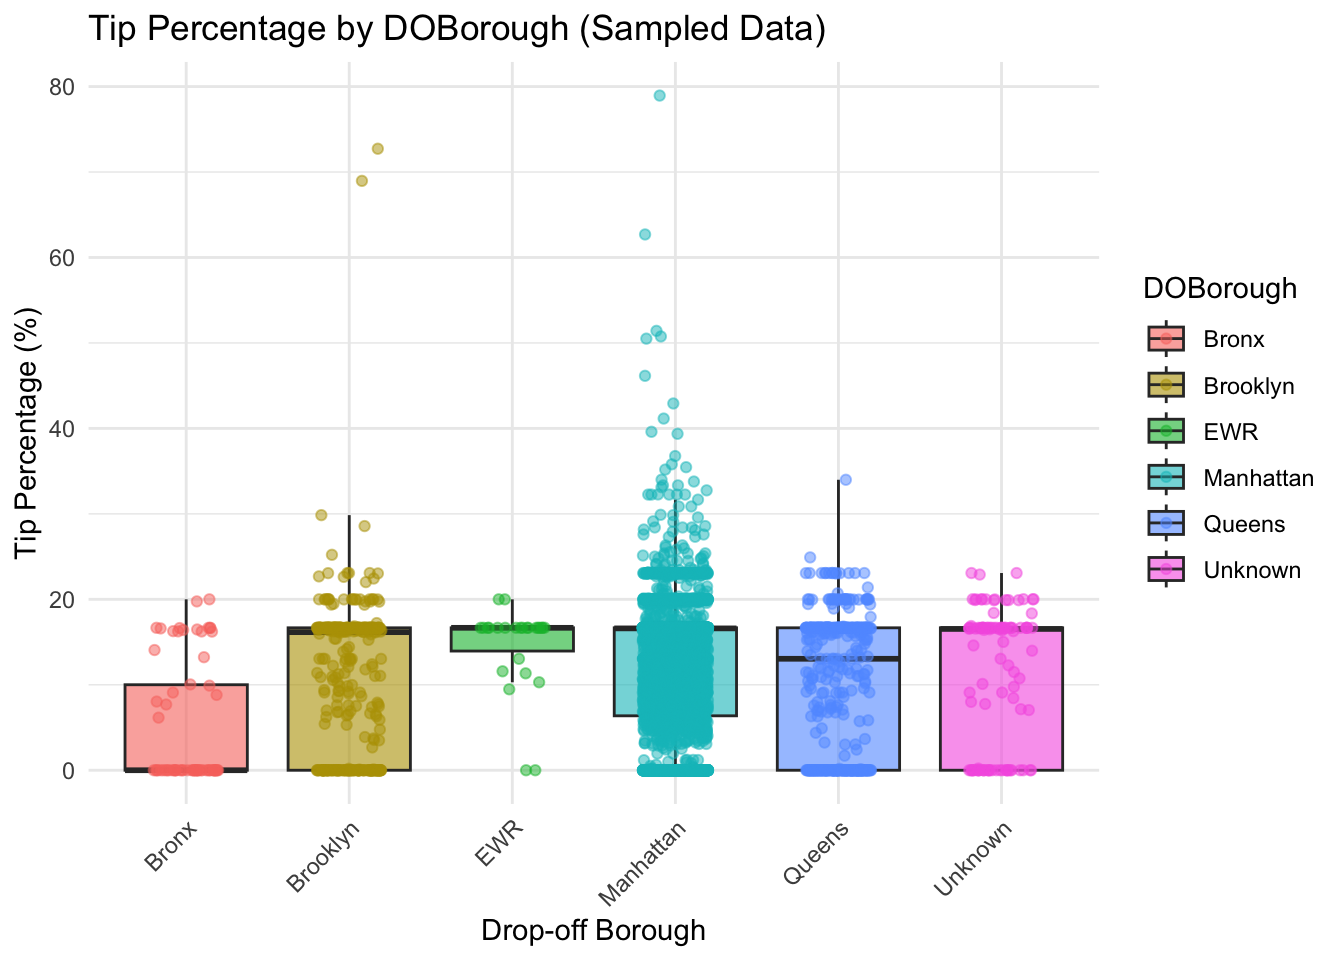
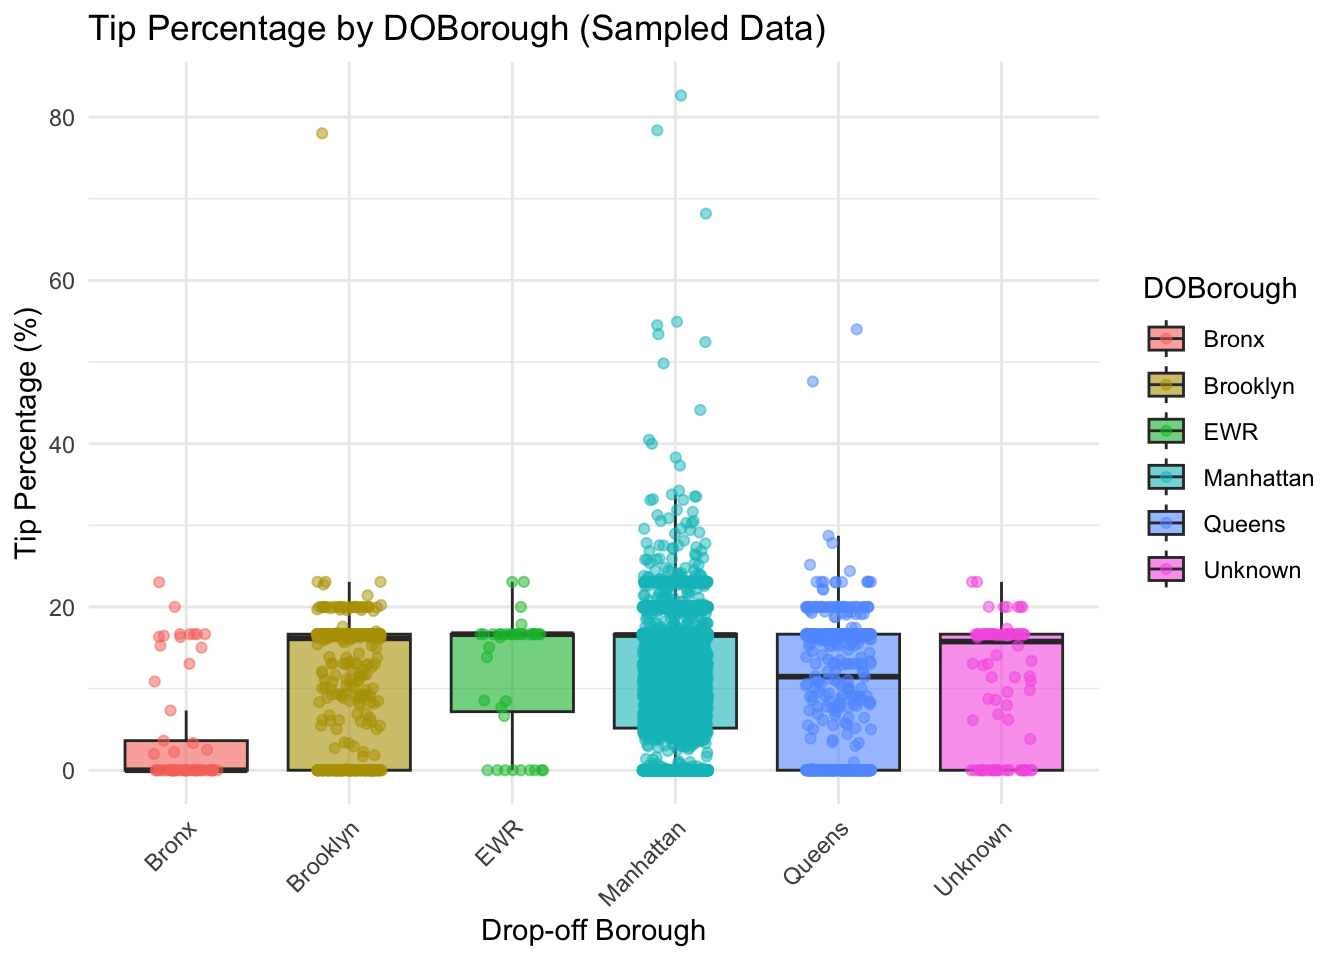
Updated results using open_dataset to merge files

diff --git a/docs/results.html b/docs/results.html
@@ -216,7 +216,6 @@ pre > code.sourceCode > span > a:first-child::before { text-decoration: underlin
 </header>
 
 
-<p>&lt;&lt;&lt;&lt;&lt;&lt;&lt; HEAD</p>
 <section id="fare-amount-by-trip-distance" class="level2" data-number="3.1">
 <h2 data-number="3.1" class="anchored" data-anchor-id="fare-amount-by-trip-distance"><span class="header-section-number">3.1</span> 1. Fare Amount by Trip Distance</h2>
 <p>For the following scatterplots we used a random subsample of the data due to the full dataset being too large (over 38 million rows). Upon plotting <code>fare_amount</code> by <code>trip_distance</code> we found that there were distinct patterns within the scatterplot. We used <code>RatecodeID</code> (the final rate code in effect at the end of the trip) and <code>payment_type</code> to illuminate these patterns.</p>
@@ -280,17 +279,24 @@ Attaching package: 'lubridate'</code></pre>
 <div class="sourceCode cell-code" id="cb12"><pre class="sourceCode r code-with-copy"><code class="sourceCode r"><span id="cb12-1"><a href="#cb12-1" aria-hidden="true" tabindex="-1"></a><span class="fu">library</span>(ggalluvial)</span>
 <span id="cb12-2"><a href="#cb12-2" aria-hidden="true" tabindex="-1"></a></span>
 <span id="cb12-3"><a href="#cb12-3" aria-hidden="true" tabindex="-1"></a><span class="co"># merging data (file was too big to store on github)</span></span>
-<span id="cb12-4"><a href="#cb12-4" aria-hidden="true" tabindex="-1"></a>path <span class="ot">&lt;-</span> <span class="st">'data/raw'</span></span>
-<span id="cb12-5"><a href="#cb12-5" aria-hidden="true" tabindex="-1"></a>filenames <span class="ot">&lt;-</span> <span class="fu">list.files</span>(path)</span>
-<span id="cb12-6"><a href="#cb12-6" aria-hidden="true" tabindex="-1"></a>merged <span class="ot">&lt;-</span> <span class="fu">read_parquet</span>(<span class="fu">paste0</span>(path, <span class="st">'/'</span>, filenames[<span class="dv">1</span>]))</span>
-<span id="cb12-7"><a href="#cb12-7" aria-hidden="true" tabindex="-1"></a><span class="cf">for</span> (file <span class="cf">in</span> filenames[<span class="dv">2</span><span class="sc">:</span><span class="fu">length</span>(filenames)]) {</span>
-<span id="cb12-8"><a href="#cb12-8" aria-hidden="true" tabindex="-1"></a>  prq <span class="ot">&lt;-</span> <span class="fu">read_parquet</span>(<span class="fu">paste0</span>(path, <span class="st">'/'</span>, file))</span>
-<span id="cb12-9"><a href="#cb12-9" aria-hidden="true" tabindex="-1"></a>  <span class="fu">colnames</span>(prq) <span class="ot">&lt;-</span> <span class="fu">colnames</span>(merged) <span class="co"># this is just for discrepancies in capitalization of colnames</span></span>
-<span id="cb12-10"><a href="#cb12-10" aria-hidden="true" tabindex="-1"></a>  merged <span class="ot">&lt;-</span> <span class="fu">rbind</span>(merged, prq)</span>
-<span id="cb12-11"><a href="#cb12-11" aria-hidden="true" tabindex="-1"></a>}</span>
+<span id="cb12-4"><a href="#cb12-4" aria-hidden="true" tabindex="-1"></a><span class="co"># path &lt;- 'data/raw'</span></span>
+<span id="cb12-5"><a href="#cb12-5" aria-hidden="true" tabindex="-1"></a><span class="co"># filenames &lt;- list.files(path)</span></span>
+<span id="cb12-6"><a href="#cb12-6" aria-hidden="true" tabindex="-1"></a><span class="co"># merged &lt;- read_parquet(paste0(path, '/', filenames[1]))</span></span>
+<span id="cb12-7"><a href="#cb12-7" aria-hidden="true" tabindex="-1"></a><span class="co"># for (file in filenames[2:length(filenames)]) {</span></span>
+<span id="cb12-8"><a href="#cb12-8" aria-hidden="true" tabindex="-1"></a><span class="co">#   prq &lt;- read_parquet(paste0(path, '/', file))</span></span>
+<span id="cb12-9"><a href="#cb12-9" aria-hidden="true" tabindex="-1"></a><span class="co">#   colnames(prq) &lt;- colnames(merged) # this is just for discrepancies in capitalization of colnames</span></span>
+<span id="cb12-10"><a href="#cb12-10" aria-hidden="true" tabindex="-1"></a><span class="co">#   merged &lt;- rbind(merged, prq)</span></span>
+<span id="cb12-11"><a href="#cb12-11" aria-hidden="true" tabindex="-1"></a><span class="co"># }</span></span>
 <span id="cb12-12"><a href="#cb12-12" aria-hidden="true" tabindex="-1"></a></span>
-<span id="cb12-13"><a href="#cb12-13" aria-hidden="true" tabindex="-1"></a><span class="co"># look up table for locationIDs and boroughs</span></span>
-<span id="cb12-14"><a href="#cb12-14" aria-hidden="true" tabindex="-1"></a>zone_lookup <span class="ot">&lt;-</span> readr<span class="sc">::</span><span class="fu">read_csv</span>(<span class="st">'data/preprocess/taxi_zone_lookup.csv'</span>)</span></code><button title="Copy to Clipboard" class="code-copy-button"><i class="bi"></i></button></pre></div>
+<span id="cb12-13"><a href="#cb12-13" aria-hidden="true" tabindex="-1"></a>path <span class="ot">&lt;-</span> <span class="st">'data/raw'</span></span>
+<span id="cb12-14"><a href="#cb12-14" aria-hidden="true" tabindex="-1"></a>filenames <span class="ot">&lt;-</span> <span class="fu">list.files</span>(path)</span>
+<span id="cb12-15"><a href="#cb12-15" aria-hidden="true" tabindex="-1"></a></span>
+<span id="cb12-16"><a href="#cb12-16" aria-hidden="true" tabindex="-1"></a><span class="co"># Use open_dataset to create a Dataset object</span></span>
+<span id="cb12-17"><a href="#cb12-17" aria-hidden="true" tabindex="-1"></a>merged <span class="ot">&lt;-</span> <span class="fu">open_dataset</span>(<span class="fu">paste0</span>(path, <span class="st">'/'</span>, filenames))</span>
+<span id="cb12-18"><a href="#cb12-18" aria-hidden="true" tabindex="-1"></a>merged <span class="ot">&lt;-</span> <span class="fu">as.data.frame</span>(merged)</span>
+<span id="cb12-19"><a href="#cb12-19" aria-hidden="true" tabindex="-1"></a></span>
+<span id="cb12-20"><a href="#cb12-20" aria-hidden="true" tabindex="-1"></a><span class="co"># look up table for locationIDs and boroughs</span></span>
+<span id="cb12-21"><a href="#cb12-21" aria-hidden="true" tabindex="-1"></a>zone_lookup <span class="ot">&lt;-</span> readr<span class="sc">::</span><span class="fu">read_csv</span>(<span class="st">'data/preprocess/taxi_zone_lookup.csv'</span>)</span></code><button title="Copy to Clipboard" class="code-copy-button"><i class="bi"></i></button></pre></div>
 </details>
 <div class="cell-output cell-output-stderr">
 <pre><code>Rows: 265 Columns: 4</code></pre>
@@ -763,7 +769,6 @@ params$discern): Some strata appear at multiple axes.</code></pre>
 </div>
 </div>
 </div>
-<p>======= &gt;&gt;&gt;&gt;&gt;&gt;&gt; 2bf12e695e197ea0c3c525a598a2e703f08bc74e</p>
 
 
 </section>
